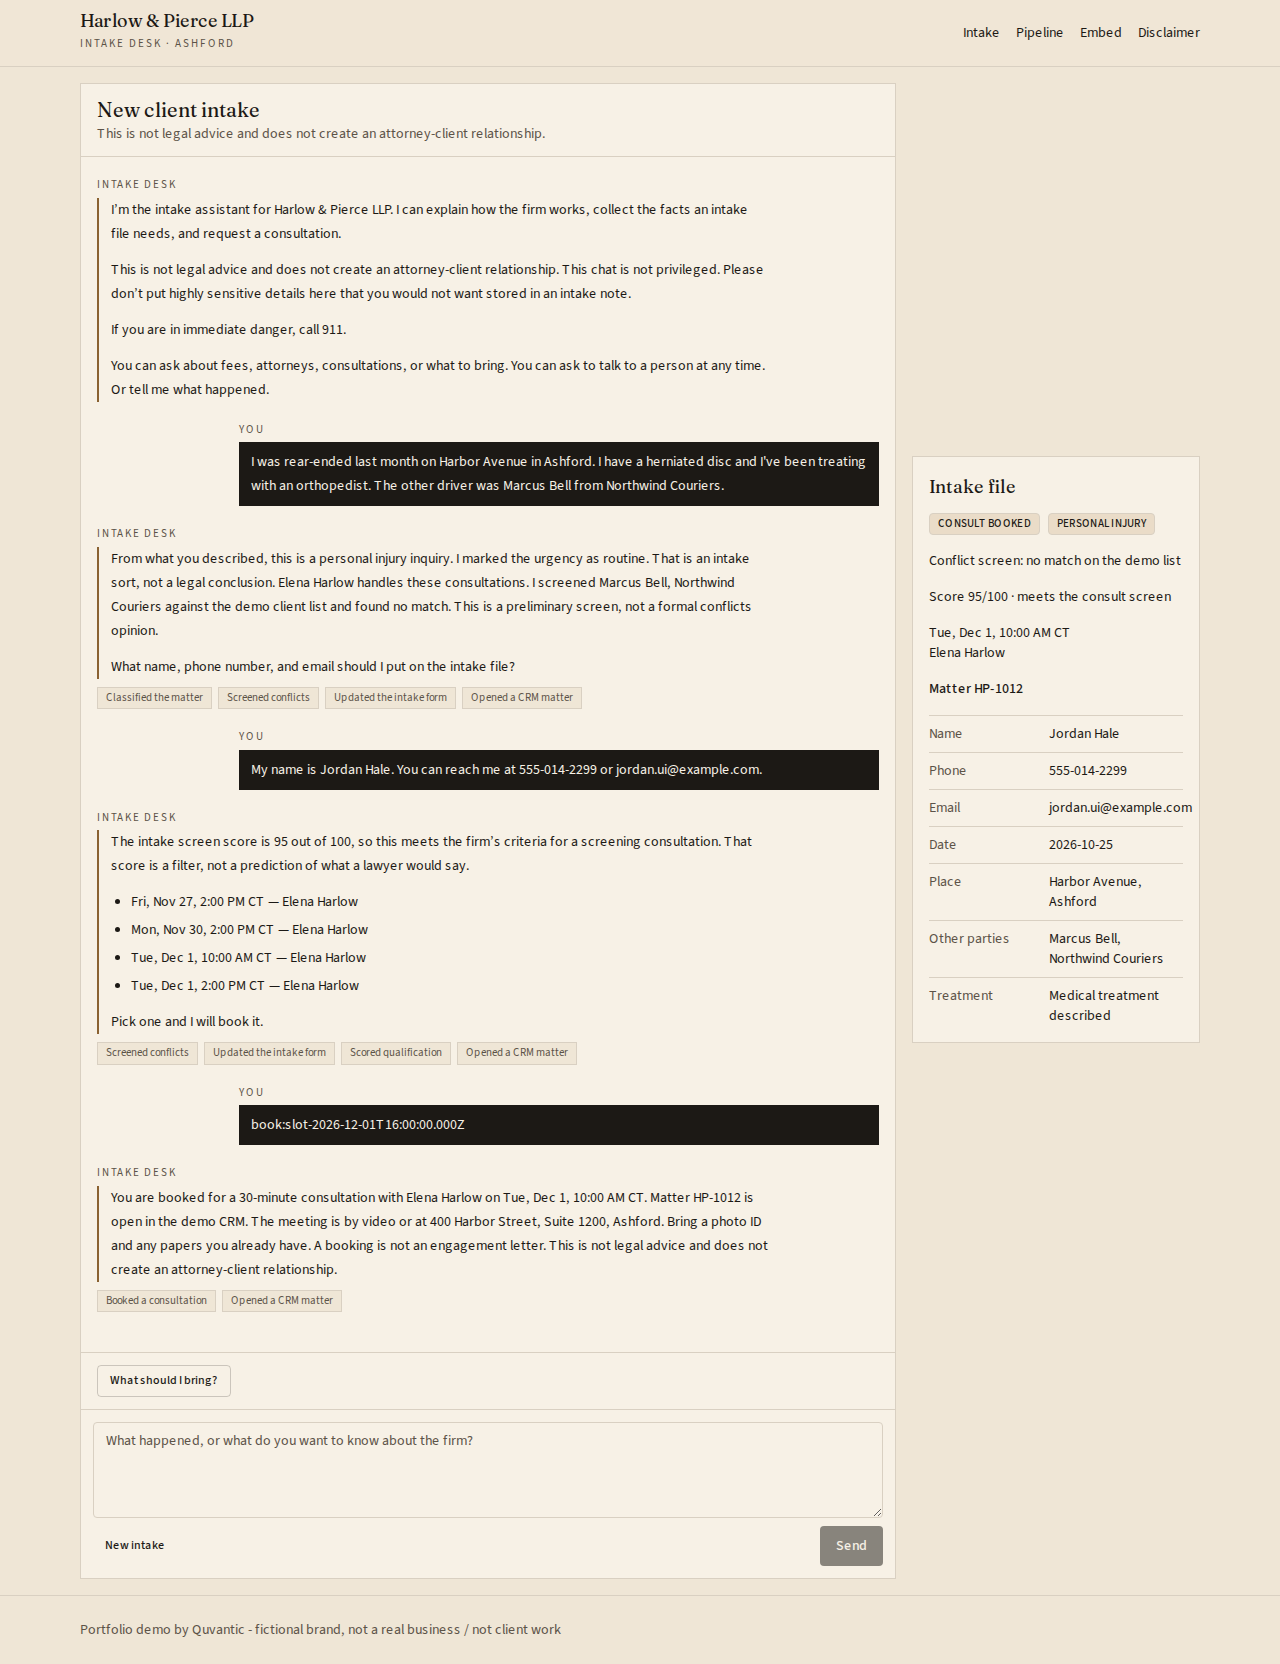
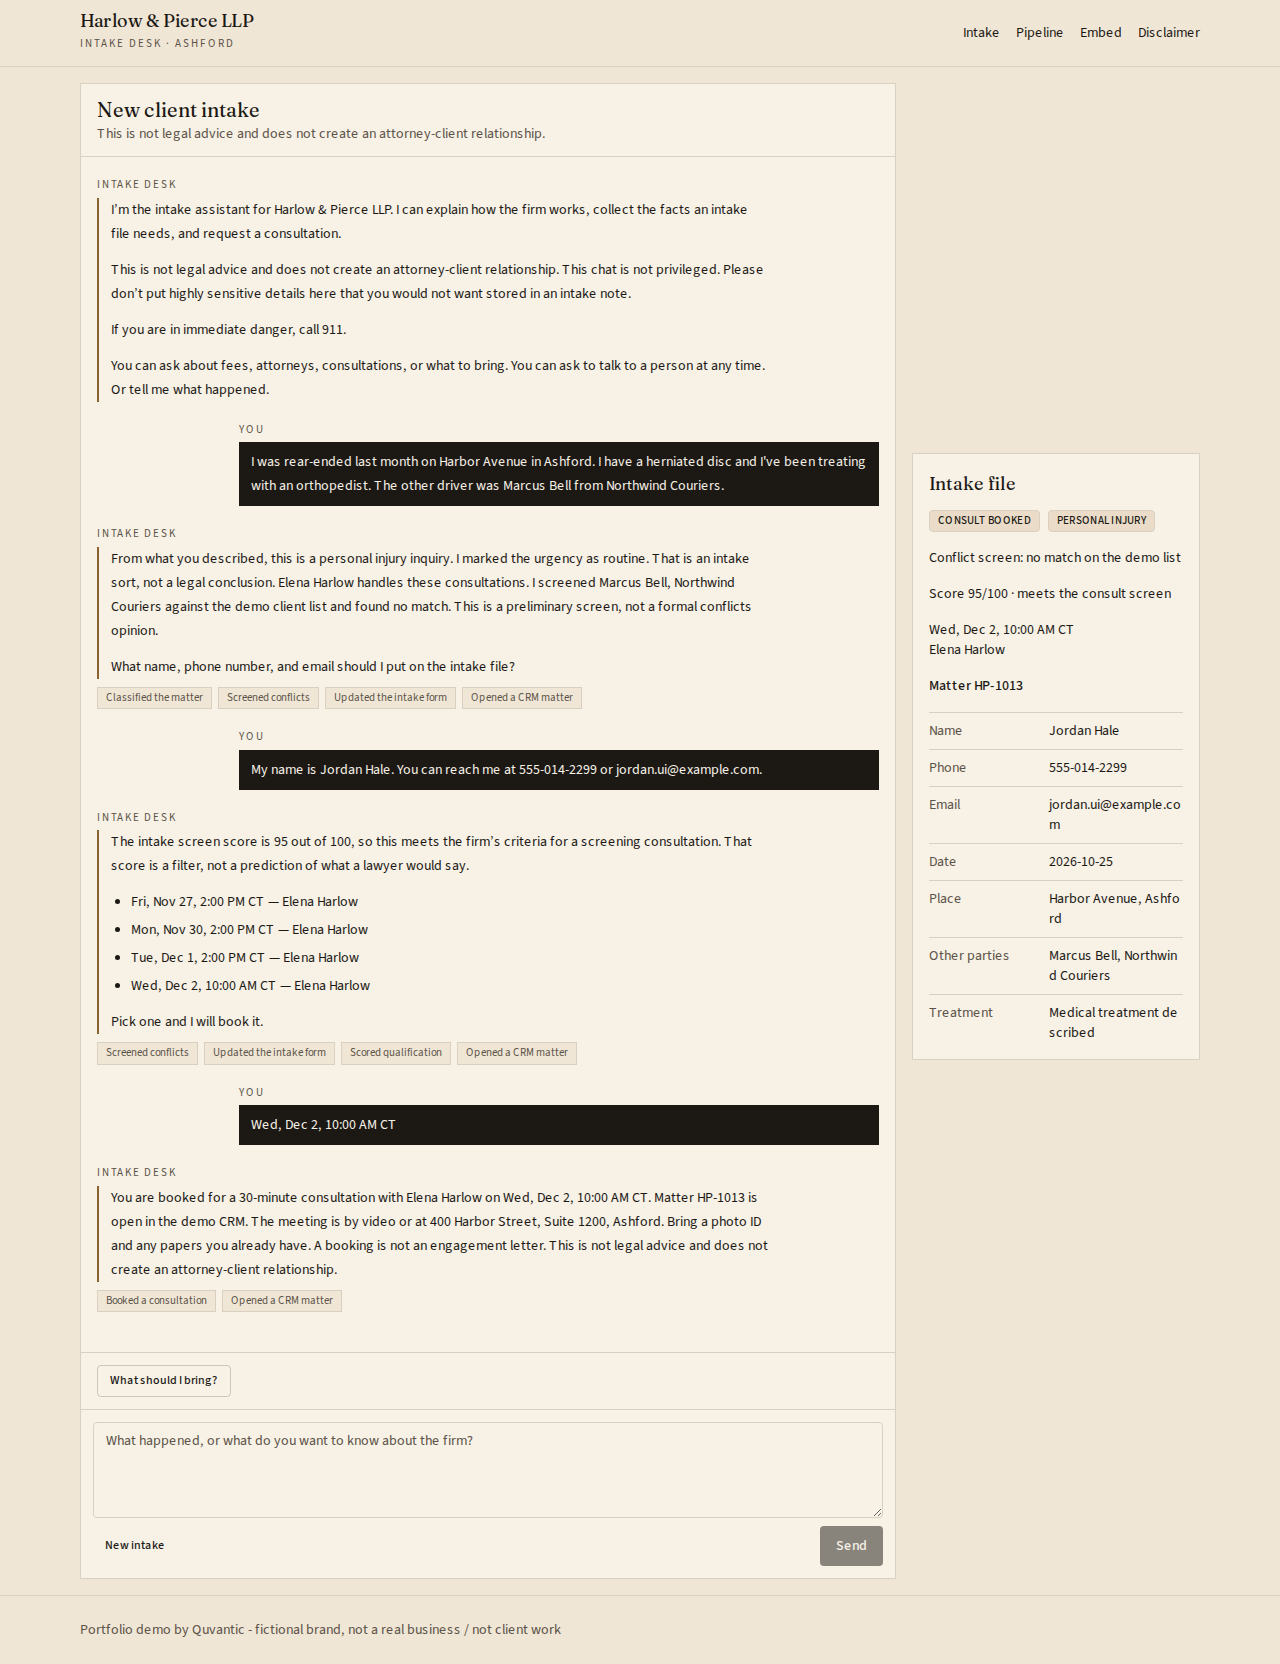
Show booking times and a close control on the disclaimer
Time chips now send the readable slot label, long emails wrap inside the intake file, and the disclaimer dialog has a Close button.

diff --git a/components/ui/dialog.tsx b/components/ui/dialog.tsx
@@ -2,6 +2,7 @@
 
 import * as React from "react";
 import * as DialogPrimitive from "@radix-ui/react-dialog";
+import { X } from "lucide-react";
 import { cn } from "@/lib/cn";
 
 export const Dialog = DialogPrimitive.Root;
@@ -14,12 +15,16 @@ export function DialogContent({ className, children, ...props }: React.Component
       <DialogPrimitive.Overlay className="fixed inset-0 z-50 bg-ink/50" />
       <DialogPrimitive.Content
         className={cn(
-          "fixed left-1/2 top-1/2 z-50 w-[min(100%-2rem,36rem)] -translate-x-1/2 -translate-y-1/2 border border-line bg-sheet p-6 shadow-xl",
+          "fixed left-1/2 top-1/2 z-50 w-[min(100%-2rem,36rem)] -translate-x-1/2 -translate-y-1/2 border border-line bg-sheet p-6 pr-16 shadow-xl",
           className,
         )}
         {...props}
       >
         {children}
+        <DialogPrimitive.Close className="absolute right-3 top-3 inline-flex h-8 items-center gap-1 border border-line bg-paper px-2 text-sm text-ink hover:bg-brass-soft focus-visible:outline focus-visible:outline-2 focus-visible:outline-offset-2 focus-visible:outline-brass">
+          <X className="h-4 w-4" aria-hidden />
+          Close
+        </DialogPrimitive.Close>
       </DialogPrimitive.Content>
     </DialogPrimitive.Portal>
   );

diff --git a/app/admin/matters/[id]/page.tsx b/app/admin/matters/[id]/page.tsx
@@ -3,6 +3,7 @@ import { notFound } from "next/navigation";
 import { PrintButton } from "@/components/print-button";
 import { Badge } from "@/components/ui/badge";
 import { DISCLAIMER, FIRM, PRACTICE_LABEL, TOOL_LABELS } from "@/lib/firm";
+import { displayTurnText } from "@/lib/slots";
 import { getMatter } from "@/lib/store";
 
 export const dynamic = "force-dynamic";
@@ -91,7 +92,7 @@ export default async function MatterPage({ params }: { params: Promise<{ id: str
               {session.messages.map((message) => (
                 <div key={message.id}>
                   <p className="text-xs uppercase tracking-wide text-muted">{message.role === "user" ? "Caller" : "Desk"}</p>
-                  <p className="whitespace-pre-wrap text-sm leading-6">{message.content}</p>
+                  <p className="whitespace-pre-wrap text-sm leading-6">{message.role === "user" ? displayTurnText(message.content) : message.content}</p>
                   {message.tools && message.tools.length > 0 ? (
                     <p className="mt-1 text-xs text-muted">{message.tools.map((tool) => TOOL_LABELS[tool.name] ?? tool.name).join(" · ")}</p>
                   ) : null}

diff --git a/components/chat-desk.tsx b/components/chat-desk.tsx
@@ -2,6 +2,7 @@
 
 import { useEffect, useRef, useState } from "react";
 import { Markdown } from "@/components/markdown";
+import { displayTurnText } from "@/lib/slots";
 import { DISCLAIMER, TOOL_LABELS } from "@/lib/firm";
 import type { ChatMessage, Session } from "@/lib/types";
 import { IntakeFile } from "@/components/intake-file";
@@ -126,7 +127,7 @@ export function ChatDesk({ embedded = false }: { embedded?: boolean }) {
                 {message.role === "user" ? "You" : "Intake desk"}
               </p>
               <div className={message.role === "user" ? "bg-ink px-3 py-2 text-sheet" : "border-l-2 border-brass pl-3"}>
-                <Markdown text={message.content} />
+                <Markdown text={message.role === "user" ? displayTurnText(message.content) : message.content} />
               </div>
               {message.tools && message.tools.length > 0 ? (
                 <ul className="mt-2 flex flex-wrap gap-1.5">

diff --git a/tests/engine.test.ts b/tests/engine.test.ts
@@ -3,7 +3,7 @@ import { classifyMatter } from "../lib/classify";
 import { runConflictCheck } from "../lib/conflict";
 import { extractFacts } from "../lib/extract";
 import { searchKb } from "../lib/rag";
-import { openSlots } from "../lib/slots";
+import { matchSlot, openSlots } from "../lib/slots";
 import { detectUrgency } from "../lib/urgency";
 import { evaluateScenario, NOW, SCENARIOS } from "../evals/scenarios";
 
@@ -48,9 +48,11 @@ describe("tools", () => {
   });
 
   it("offers weekday morning slots in Chicago", () => {
-    const [first] = openSlots(NOW, "personal_injury", []);
+    const slots = openSlots(NOW, "personal_injury", []);
+    const [first, second] = slots;
     expect(first.label).toContain("10:00 AM");
     expect(first.label).toContain("Thu");
     expect(first.attorney).toBe("Elena Harlow");
+    expect(matchSlot(second.label, slots)?.id).toBe(second.id);
   });
 });

diff --git a/lib/slots.ts b/lib/slots.ts
@@ -37,9 +37,19 @@ export function openSlots(now: Date, area: PracticeArea | null, taken: string[],
   return slots;
 }
 
+export function displayTurnText(content: string): string {
+  const booked = content.trim().match(/^book:(slot-(.+))$/);
+  if (!booked) return content;
+  const when = new Date(booked[2]);
+  if (Number.isNaN(when.getTime())) return content;
+  return formatSlotLabel(when);
+}
+
 export function matchSlot(message: string, slots: OpenSlot[]): OpenSlot | null {
   const book = message.trim().match(/^book:(slot-.+)$/);
   if (book) return slots.find((slot) => slot.id === book[1]) ?? null;
+  const exact = slots.find((slot) => slot.label.toLowerCase() === message.trim().toLowerCase());
+  if (exact) return exact;
   if (/\b(first|earliest)\b/i.test(message)) return slots[0] ?? null;
   const lowered = message.toLowerCase();
   return (

diff --git a/components/intake-file.tsx b/components/intake-file.tsx
@@ -62,9 +62,9 @@ export function IntakeFile({ session }: { session: Session | null }) {
       <dl className="space-y-2">
         {rows.length === 0 ? <p className="text-muted">No facts collected yet.</p> : null}
         {rows.map(([label, value]) => (
-          <div key={label} className="grid grid-cols-[7rem_1fr] gap-2 border-t border-line pt-2">
+          <div key={label} className="grid min-w-0 grid-cols-[7rem_minmax(0,1fr)] gap-2 border-t border-line pt-2">
             <dt className="text-muted">{label}</dt>
-            <dd>{value}</dd>
+            <dd className="min-w-0 break-all">{value}</dd>
           </div>
         ))}
       </dl>

diff --git a/lib/agent.ts b/lib/agent.ts
@@ -228,7 +228,7 @@ function slotBlock(session: Session, ctx: TurnContext): { text: string; suggesti
   const lines = slots.map((slot) => `• ${slot.label} — ${slot.attorney}`).join("\n");
   return {
     text: lines || "I don’t have an open screening time on the demo calendar. Call (555) 014-2200.",
-    suggestions: slots.map((slot) => ({ id: slot.id, label: slot.label, send: `book:${slot.id}` })),
+    suggestions: slots.map((slot) => ({ id: slot.id, label: slot.label, send: slot.label })),
   };
 }
 
